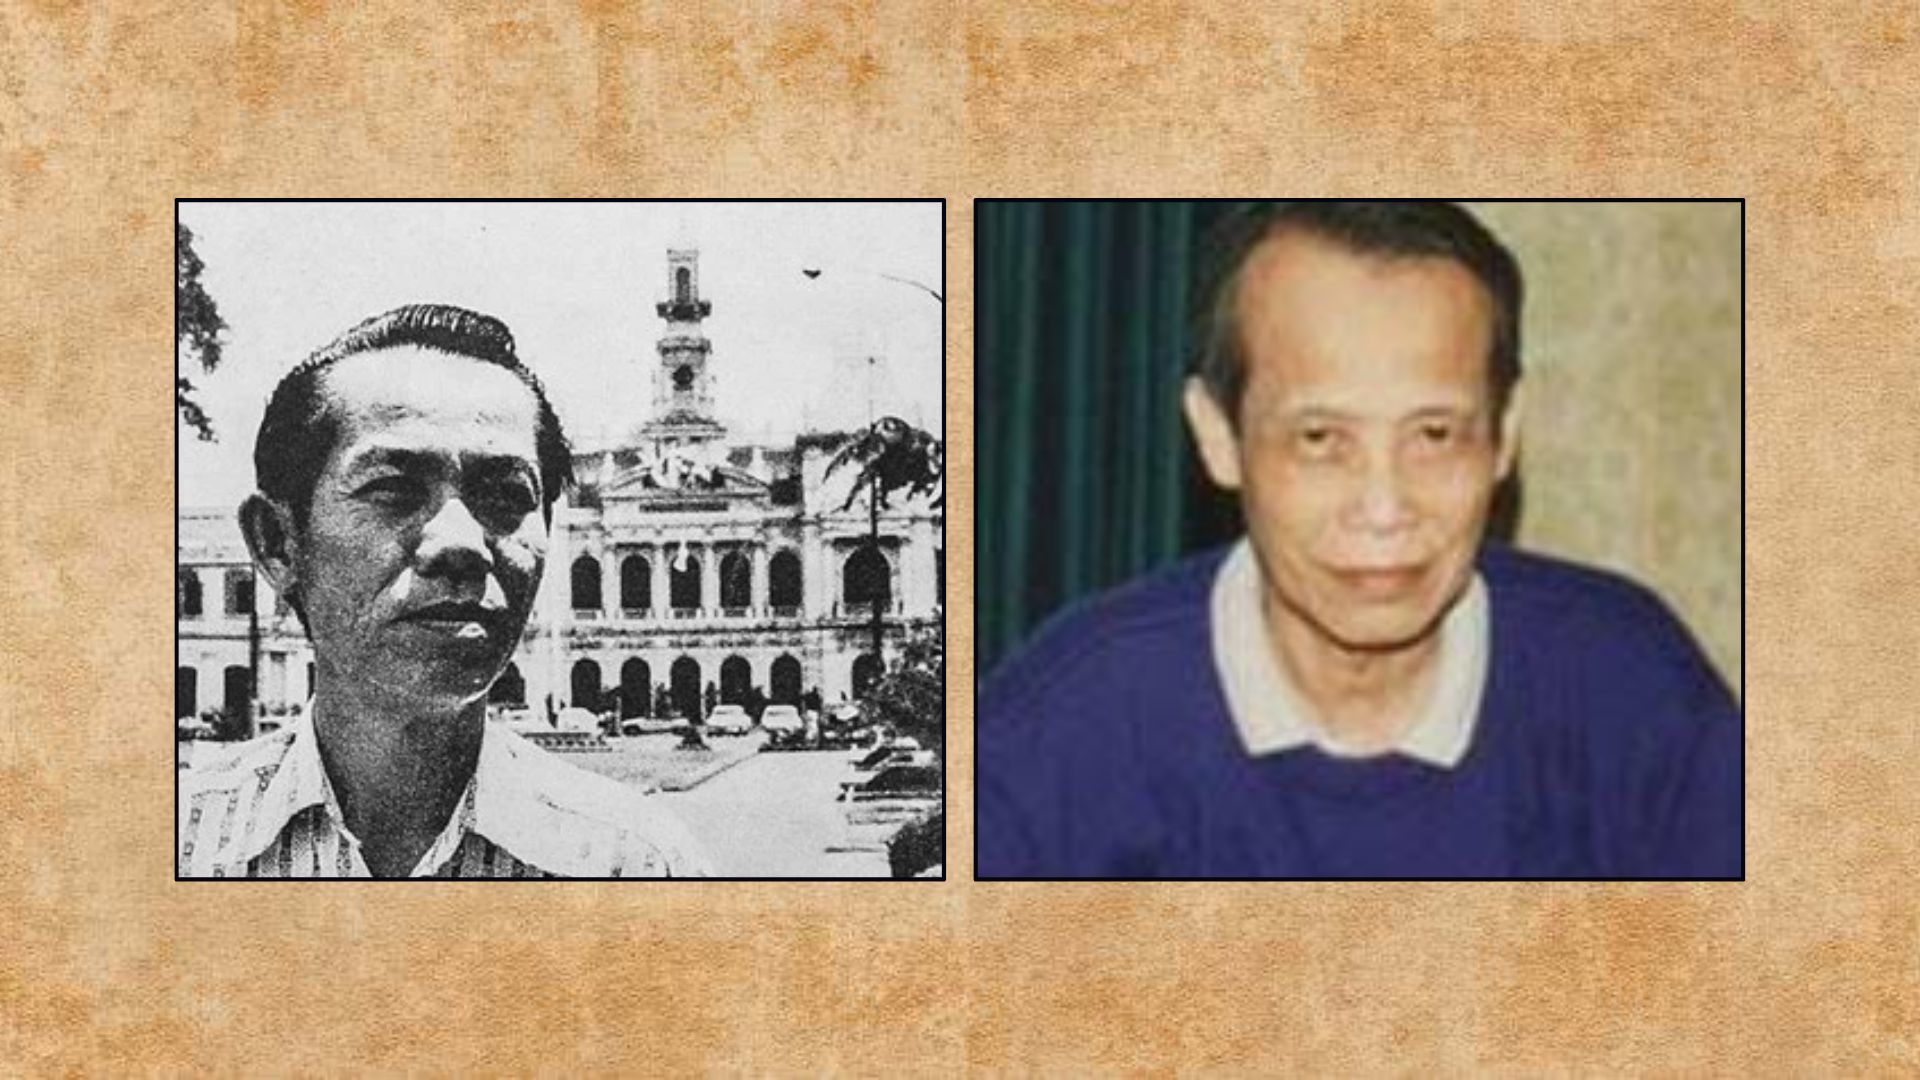
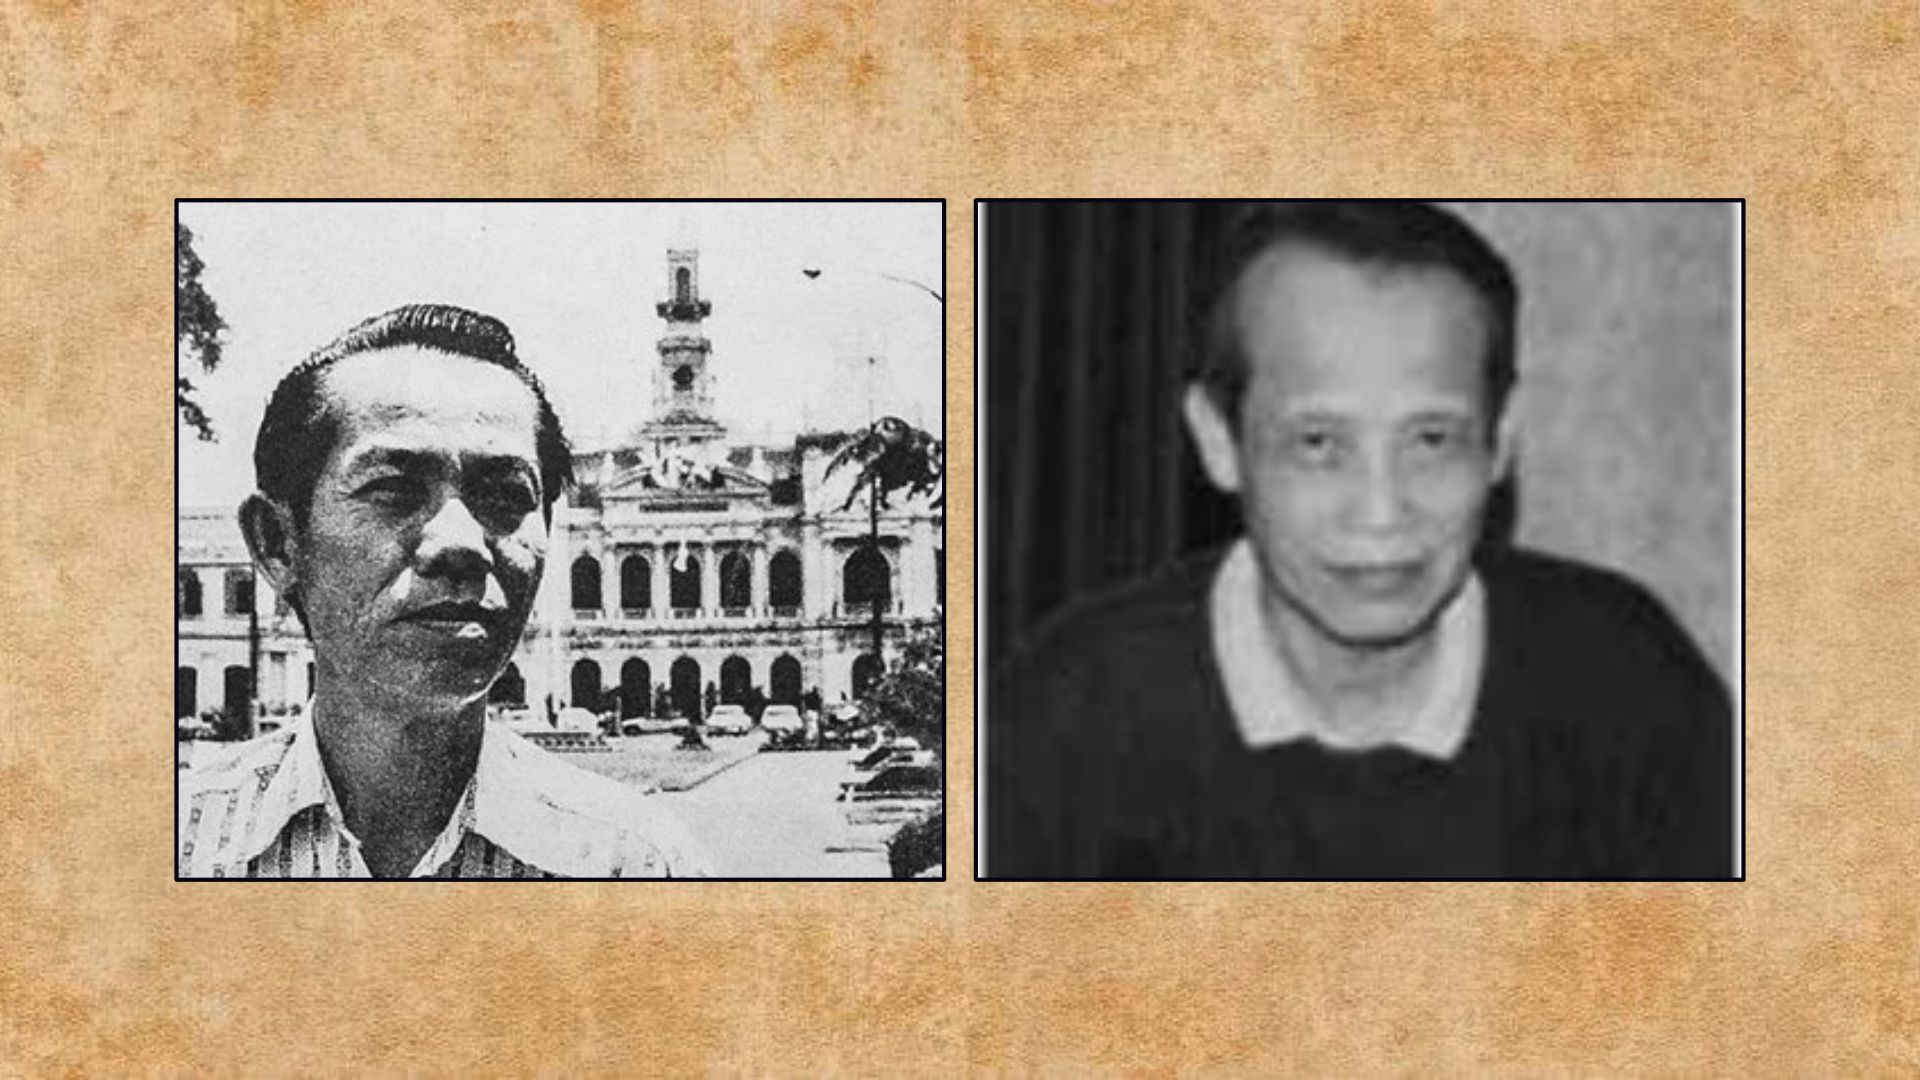
sửa ảnh

Changed region(s): [[0.5, 0.1833, 0.9062, 0.825]]

diff --git a/data/side-stories.js b/data/side-stories.js
@@ -189,8 +189,8 @@ window.AXIS_STORIES = [
     title_ja: "すべてを顧みず、秘密警察の頭目チャン・キム・トゥエンを救出したファム・スアン・アン",
 
     modalImg_ja: "assets/images/1974_1976/CCNL_1975_PXAVaTTK.jpg",
-    modalImgAlt_ja: "ファム・スアン・アン（左）とチャン・キム・トゥエン（右）（出典：ベトナム通信社）",
-    caption_ja: "ファム・スアン・アン（左）とチャン・キム・トゥエン（右）（出典：ベトナム通信社）",
+    modalImgAlt_ja: "ファム・スアン・アン（左）とチャン・キム・トゥエン（右）（出典：ベトナム通信社、『完璧なスパイ』125ページ）",
+    caption_ja: "ファム・スアン・アン（左）とチャン・キム・トゥエン（右）（出典：ベトナム通信社、『完璧なスパイ』125ページ）",
 
     text1_ja: "1975年4月末、チャン・キム・トゥエンは、月初めに友人や支持者が逮捕され、その人々が釈放されるまでは去ろうとしなかったため、サイゴンにとどまっていた。CIAはトゥエンを優先的な退避対象としていた。しかし、4月29日にはトゥエンの退避を担当していたウィリアム・コールマンが先に去ってしまい、ロバート・シャプレンもトゥエンを退避する記者の名簿に入れることができず、「アンのところへ行け！」と告げるしかなかった [19, p. 267]。",
 

diff --git a/data/1976/data_1976.js b/data/1976/data_1976.js
@@ -75,10 +75,10 @@ window.EXTRA_DATA_1976 = {
         {
             id: '1976b',
             modalImg: 'assets/images/1974_1976/1976_NB_DocSach.jpg',
-            modalImgAlt: 'Phạm Xuân Ẩn bên bàn làm việc của ông (Nguồn: Báo Dân Trí)',
-            modalImgAlt_ja: '自身の仕事机に向かうファム・スアン・アン（出典：Dan Tri紙）',
-            caption: 'Phạm Xuân Ẩn bên bàn làm việc của ông (Nguồn: Báo Dân Trí)',
-            caption_ja: '自身の仕事机に向かうファム・スアン・アン（出典：Dan Tri紙）',
+            modalImgAlt: 'Phạm Xuân Ẩn bên bàn làm việc của ông (Nguồn: Báo Tuổi Trẻ)',
+            modalImgAlt_ja: '自身の仕事机に向かうファム・スアン・アン（出典：Tuoi Tre紙）',
+            caption: 'Phạm Xuân Ẩn bên bàn làm việc của ông (Nguồn: Báo Tuổi Trẻ)',
+            caption_ja: '自身の仕事机に向かうファム・スアン・アン（出典：Tuoi Tre紙）',
             title: 'Khép lại chặng đường làm nhà báo',
             title_ja: '記者としての道に幕を下ろす',
             date: 'Mùa hè năm 1976',
